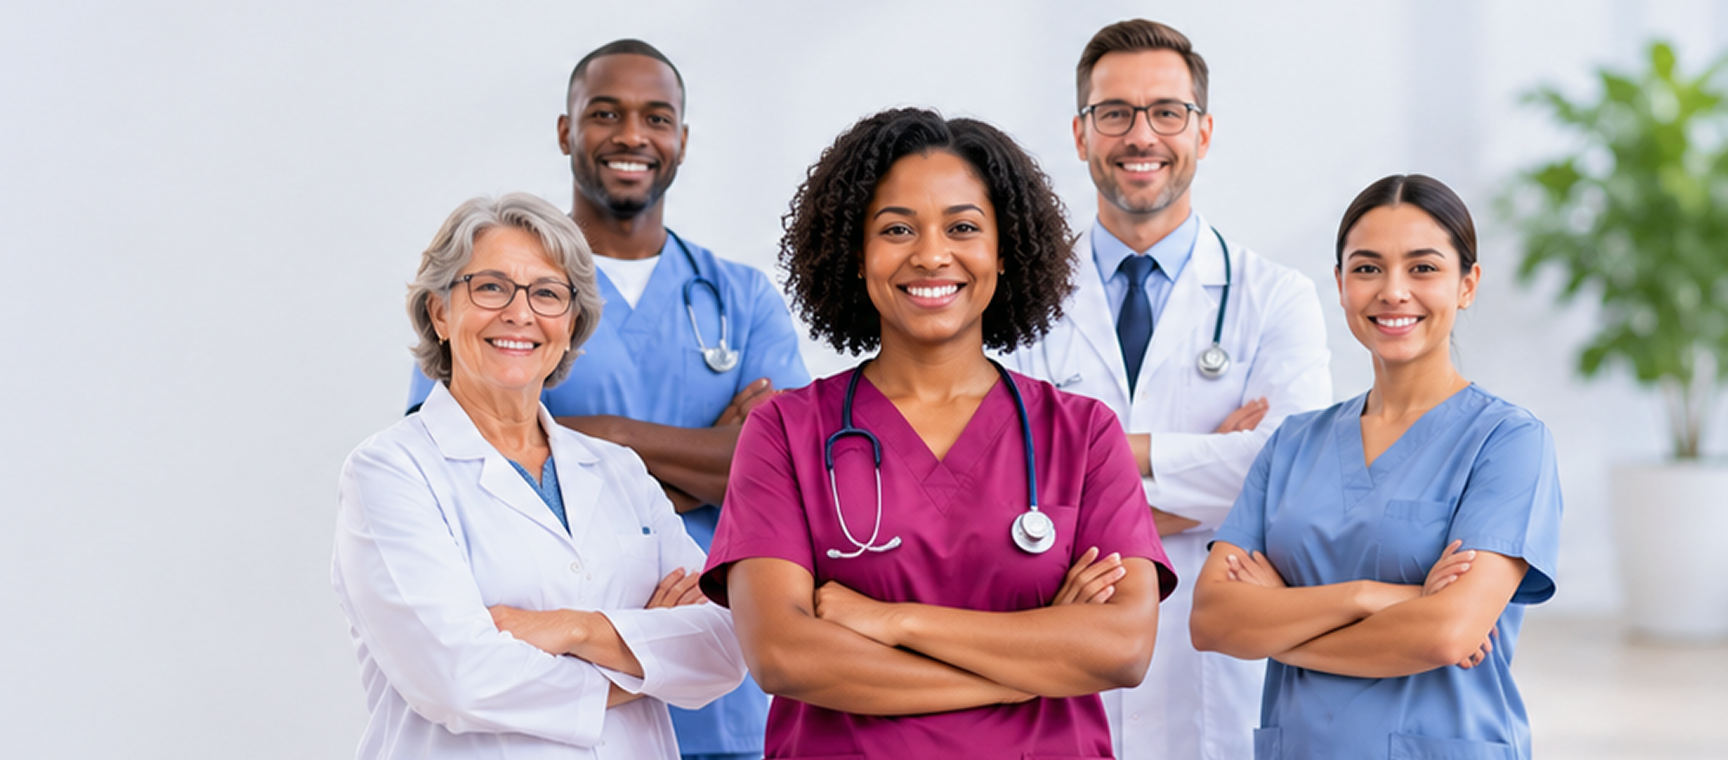
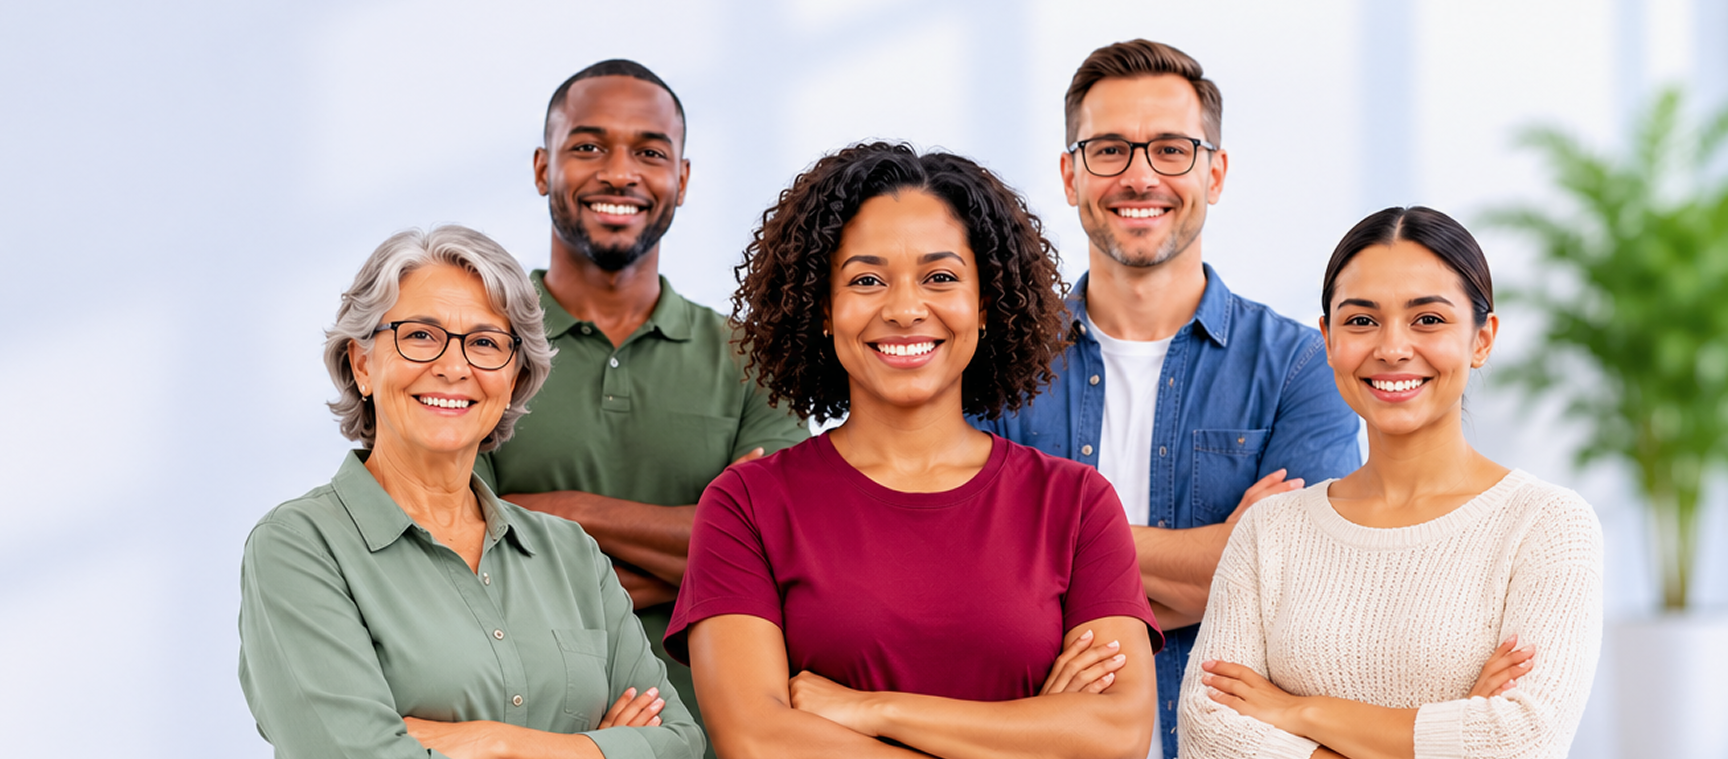
sjsj

diff --git a/src/components/AboutStats.tsx b/src/components/AboutStats.tsx
@@ -1,23 +1,91 @@
+"use client";
+
+import { useEffect, useRef, useState } from "react";
+
 const stats = [
-  { value: "72+", label: "Programs & Trainings" },
-  { value: "10+", label: "Daily Customers" },
-  { value: "20+", label: "Work Sessions" },
-  { value: "1K+", label: "Happy Customers" },
+  { target: 72, format: (n: number) => `${n}`, suffix: "+", label: "Programs & Trainings" },
+  { target: 10, format: (n: number) => `${n}`, suffix: "+", label: "Daily Customers" },
+  { target: 20, format: (n: number) => `${n}`, suffix: "+", label: "Work Sessions" },
+  {
+    target: 1000,
+    format: (n: number) => (n >= 1000 ? `${Math.floor(n / 1000)}K` : `${n}`),
+    suffix: "+",
+    label: "Happy Customers",
+  },
 ];
 
-export default function AboutStats() {
+const DURATION = 1800;
+
+function Stat({ target, format, suffix, label, started }: {
+  target: number;
+  format: (n: number) => string;
+  suffix: string;
+  label: string;
+  started: boolean;
+}) {
+  const [value, setValue] = useState(0);
+
+  useEffect(() => {
+    if (!started) return;
+    let raf: number;
+    const t0 = performance.now();
+    const tick = (t: number) => {
+      const p = Math.min((t - t0) / DURATION, 1);
+      const eased = 1 - Math.pow(1 - p, 3);
+      setValue(Math.round(target * eased));
+      if (p < 1) raf = requestAnimationFrame(tick);
+    };
+    raf = requestAnimationFrame(tick);
+    return () => cancelAnimationFrame(raf);
+  }, [started, target]);
+
   return (
-    <section className="bg-primary-dark py-16 text-white md:py-20">
+    <div className="flex flex-col items-center px-4 py-8 text-center sm:px-6 lg:py-10">
+      <p className="text-4xl font-normal sm:text-5xl lg:text-[52px]">
+        {format(value)}
+        {suffix}
+      </p>
+      <p className="mt-2 text-sm font-medium text-white/90">{label}</p>
+    </div>
+  );
+}
+
+export default function AboutStats() {
+  const ref = useRef<HTMLElement>(null);
+  const [started, setStarted] = useState(false);
+
+  useEffect(() => {
+    const el = ref.current;
+    if (!el) return;
+    const observer = new IntersectionObserver(
+      ([entry]) => {
+        if (entry.isIntersecting) {
+          setStarted(true);
+          observer.disconnect();
+        }
+      },
+      { threshold: 0.3 }
+    );
+    observer.observe(el);
+    return () => observer.disconnect();
+  }, []);
+
+  return (
+    <section ref={ref} className="bg-primary-dark py-16 text-white md:py-20">
       <div className="site-container">
         <h2 className="mx-auto max-w-[520px] text-center text-3xl font-bold sm:text-4xl lg:text-[36px]">
           Trusted And Backed By Meaningful Results
         </h2>
         <dl className="mx-auto mt-12 grid max-w-[1100px] grid-cols-2 divide-x divide-white/25 border border-white/25 lg:grid-cols-4">
-          {stats.map(({ value, label }) => (
-            <div key={label} className="flex flex-col items-center px-4 py-8 text-center sm:px-6 lg:py-10">
-              <p className="text-4xl font-normal sm:text-5xl lg:text-[52px]">{value}</p>
-              <p className="mt-2 text-sm font-medium text-white/90">{label}</p>
-            </div>
+          {stats.map(({ target, format, suffix, label }) => (
+            <Stat
+              key={label}
+              target={target}
+              format={format}
+              suffix={suffix}
+              label={label}
+              started={started}
+            />
           ))}
         </dl>
       </div>

diff --git a/src/components/Footer.tsx b/src/components/Footer.tsx
@@ -3,30 +3,30 @@ import Link from "next/link";
 
 const columns = [
   {
-    title: "Navigations",
+    title: "More Links",
     links: [
       { label: "Home", href: "/" },
       { label: "About", href: "/about" },
-      { label: "Courses", href: "#" },
-      { label: "Products", href: "#" },
+      { label: "Contact us", href: "/contact" },
+      { label: "Blogs", href: "/blogs" },
     ],
   },
   {
-    title: "Resources",
+    title: "What We Do",
     links: [
-      { label: "Home", href: "/" },
-      { label: "About", href: "/about" },
-      { label: "Applications", href: "#" },
-      { label: "Products", href: "#" },
+      { label: "House Cleaning", href: "/services" },
+      { label: "Medical Care", href: "/services" },
+      { label: "Errand Care", href: "/services" },
+      { label: "Companions", href: "/services" },
     ],
   },
   {
-    title: "Legal",
+    title: "What We Do",
     links: [
-      { label: "Privacy", href: "#" },
-      { label: "Terms & Conditions", href: "#" },
-      { label: "Products", href: "#" },
-      { label: "Certifications", href: "#" },
+      { label: "Laundry & Clothing Care", href: "/services" },
+      { label: "Elderly Care & Assistance", href: "/services" },
+      { label: "Dressing Care Service", href: "/services" },
+      { label: "Personal Hygiene Grooming", href: "/services" },
     ],
   },
 ];
@@ -55,8 +55,8 @@ export default function Footer() {
               />
             </Link>
             <p className="mt-5 text-base leading-snug">
-              Start With the Free Forex Sniper Class, learn the exact framework we use before
-              risking capital.
+              In-home care that elevates the human spirit — bringing comfort, dignity, and
+              peace of mind to you and your loved ones.
             </p>
             <div className="mt-6 flex items-center gap-5">
               <span className="text-sm font-semibold">Connect with us:</span>
@@ -75,9 +75,9 @@ export default function Footer() {
             </div>
           </div>
 
-          <div className="grid grid-cols-2 gap-10 sm:grid-cols-3 lg:gap-20">
-            {columns.map(({ title, links }) => (
-              <nav key={title} aria-label={title}>
+          <div className="flex flex-wrap gap-x-14 gap-y-10 lg:gap-x-24">
+            {columns.map(({ title, links }, i) => (
+              <nav key={`${title}-${i}`} aria-label={`${title} ${i + 1}`} className="shrink-0">
                 <h3 className="text-sm font-semibold">{title}</h3>
                 <ul className="mt-5 space-y-3.5">
                   {links.map(({ label, href }) => (

diff --git a/src/app/blogs/[slug]/page.tsx b/src/app/blogs/[slug]/page.tsx
@@ -5,6 +5,7 @@ import Navbar from "@/components/Navbar";
 import Consultation from "@/components/Consultation";
 import Footer from "@/components/Footer";
 import { getBlogBySlug, formatBlogDate } from "@/lib/blogs";
+import RelatedPosts from "@/components/RelatedPosts";
 
 async function Article({ params }: { params: Promise<{ slug: string }> }) {
   const { slug } = await params;
@@ -25,7 +26,7 @@ async function Article({ params }: { params: Promise<{ slug: string }> }) {
             className="-z-10 object-cover"
           />
         )}
-        <div className="absolute inset-0 -z-10 bg-[linear-gradient(to_top,#930965_0%,#930965_15%,#930965B3_35%,#93096559_55%,transparent_75%)]" />
+        <div className="absolute inset-0 -z-10 bg-[linear-gradient(to_top,#720142_0%,#720142_15%,#720142B3_35%,#72014259_55%,transparent_75%)]" />
         <div className="absolute inset-x-0 bottom-12">
           <div className="site-container flex flex-col gap-4 text-white sm:flex-row sm:items-end sm:justify-between">
             <div>
@@ -38,9 +39,6 @@ async function Article({ params }: { params: Promise<{ slug: string }> }) {
                 {blog.title}
               </h1>
             </div>
-            <p className="max-w-[320px] text-sm leading-snug sm:text-right">
-              More Than Helping Hands, We Bring Comfort, Care, and Peace of Mind.
-            </p>
           </div>
         </div>
       </section>
@@ -89,6 +87,7 @@ export default function BlogPostPage({
         }
       >
         <Article params={params} />
+        <RelatedPosts slugPromise={params.then((p) => p.slug)} />
       </Suspense>
       <Consultation />
       <Footer />

diff --git a/src/components/RelatedPosts.tsx b/src/components/RelatedPosts.tsx
@@ -1,0 +1,38 @@
+import { getBlogs, formatBlogDate } from "@/lib/blogs";
+import { Card } from "@/components/Blogs";
+
+export default async function RelatedPosts({ slugPromise }: { slugPromise: Promise<string> }) {
+  const excludeSlug = await slugPromise;
+  const blogs = (await getBlogs()).filter((b) => b.slug !== excludeSlug).slice(0, 3);
+
+  if (blogs.length === 0) return null;
+
+  return (
+    <section className="pb-16 md:pb-24">
+      <div className="site-container">
+        <div className="flex items-center justify-center gap-6">
+          <span className="h-px w-16 bg-gray-300 sm:w-28" />
+          <p className="text-sm font-medium uppercase text-primary">Other Related Blogs</p>
+          <span className="h-px w-16 bg-gray-300 sm:w-28" />
+        </div>
+        <h2 className="mx-auto mt-6 max-w-[560px] text-center text-3xl font-bold text-black sm:text-4xl lg:text-[36px]">
+          Compassionate Support for Every Part of Daily Living
+        </h2>
+
+        <div className="mx-auto mt-12 grid max-w-[1100px] gap-6 sm:grid-cols-2 lg:mt-16 lg:grid-cols-3 lg:gap-8">
+          {blogs.map((blog) => (
+            <Card
+              key={blog.id}
+              title={blog.title}
+              author={blog.author}
+              date={formatBlogDate(blog.created_at)}
+              dateTime={blog.created_at}
+              image={blog.image_url}
+              href={`/blogs/${blog.slug}`}
+            />
+          ))}
+        </div>
+      </div>
+    </section>
+  );
+}

diff --git a/src/app/contact/page.tsx b/src/app/contact/page.tsx
@@ -49,8 +49,18 @@ export default function ContactPage() {
                 A team of experienced professionals ready to provide compassionate care and
                 reliable healthcare support every day.
               </p>
+              <div className="mt-10 h-[260px] flex-none overflow-hidden rounded-xl border border-[#CFE3F7] sm:h-[300px] lg:h-[320px]">
+                <iframe
+                  title="Fawez Helping Hands — 5875 N Lincoln Avenue STE 110, Chicago IL 60659"
+                  src="https://maps.google.com/maps?q=5875%20N%20Lincoln%20Avenue%20STE%20110%2C%20Chicago%2C%20IL%2060659&z=15&output=embed"
+                  className="size-full border-0"
+                  loading="lazy"
+                  referrerPolicy="no-referrer-when-downgrade"
+                  allowFullScreen
+                />
+              </div>
               <div className="hidden min-h-8 flex-1 lg:block" aria-hidden />
-              <div className="relative mt-8 h-[280px] flex-none overflow-hidden rounded-xl sm:h-[340px] lg:mt-0 lg:h-[430px]">
+              <div className="relative mt-8 h-[220px] flex-none overflow-hidden rounded-xl sm:h-[260px] lg:mt-6 lg:h-[280px]">
                 <Image
                   src="/images/contact_img.avif"
                   alt="Care professional reviewing a care plan on a tablet"

diff --git a/src/components/PageBanner.tsx b/src/components/PageBanner.tsx
@@ -23,11 +23,11 @@ export default function PageBanner({
         sizes="100vw"
         className={`-z-10 object-cover ${position}`}
       />
-      <div className="absolute inset-0 -z-10 bg-[linear-gradient(to_top,#930965_0%,#930965_15%,#930965B3_35%,#93096559_55%,transparent_75%)]" />
+      <div className="absolute inset-0 -z-10 bg-[linear-gradient(to_top,#720142_0%,#720142_15%,#720142B3_35%,#72014259_55%,transparent_75%)]" />
       <div className="absolute inset-x-0 bottom-12">
         <div className="site-container flex flex-col gap-4 text-white sm:flex-row sm:items-end sm:justify-between">
           <h1 className="text-4xl font-bold sm:text-5xl">{title}</h1>
-          <p className="max-w-[320px] text-sm leading-snug sm:text-right">{subtitle}</p>
+          <p className="max-w-[320px] text-sm lg:text-[20px] leading-snug sm:text-right">{subtitle}</p>
         </div>
       </div>
     </section>

diff --git a/src/components/CareServices.tsx b/src/components/CareServices.tsx
@@ -43,7 +43,7 @@ export default function CareServices() {
           </p>
         </div>
 
-        <ul className="w-full max-w-[400px] divide-y-[4px] divide-[#930965]/10 rounded-3xl bg-[#B2DAFFCC] p-6 shadow-[0_3px_30px_#00000040] sm:p-8 lg:mr-4">
+        <ul className="w-full max-w-[400px] divide-y-[4px] divide-[#720142]/10 rounded-3xl bg-[#B2DAFFCC] p-6 shadow-[0_3px_30px_#00000040] sm:p-8 lg:mr-4">
           {items.map(({ icon, title, subtitle, w, h }) => (
             <li key={subtitle} className="flex items-center gap-6 py-5 sm:py-6">
               <span className="flex size-14 shrink-0 items-center justify-center rounded-full bg-white shadow-[0_2px_10px_rgba(0,0,0,0.08)]">

diff --git a/src/components/AboutMission.tsx b/src/components/AboutMission.tsx
@@ -33,7 +33,7 @@ export default function AboutMission() {
   return (
     <section className="bg-[#F2F9FF] pt-16 md:pt-24">
       <div className="site-container text-center">
-        <p className="text-sm font-medium uppercase text-primary">About Fawez Helping Hands</p>
+        <p className="text-sm font-medium uppercase lg:text-[16px] text-primary">About Fawez Helping Hands</p>
         <h2 className="mx-auto mt-6 max-w-[640px] text-3xl font-bold text-black sm:text-4xl lg:text-[36px]">
           Because caring goes beyond assistance, it&apos;s about preserving dignity, building
           trust, and making every moment count.

diff --git a/src/components/Consultation.tsx b/src/components/Consultation.tsx
@@ -110,7 +110,7 @@ export default function Consultation() {
             onSubmit={onSubmit}
             onChange={clearMissing}
             noValidate
-            className="space-y-3.5 rounded-2xl bg-[#B2DAFF] p-3"
+            className="space-y-3.5 rounded-2xl bg-[#B2DAFF] p-6"
           >
             <div className="grid gap-3.5 sm:grid-cols-2">
               <input name="name" type="text" required placeholder="Full Name" aria-label="Full Name" className={fieldClass("name")} />

diff --git a/src/app/globals.css b/src/app/globals.css
@@ -8,8 +8,8 @@
 @theme inline {
   --color-background: var(--background);
   --color-foreground: var(--foreground);
-  --color-primary: #930965;
-  --color-primary-dark: #7a0754;
+  --color-primary: #720142;
+  --color-primary-dark: #720142;
   --font-sans: var(--font-archetica), var(--font-outfit), ui-sans-serif, system-ui, sans-serif;
 }
 

diff --git a/src/components/Blogs.tsx b/src/components/Blogs.tsx
@@ -3,7 +3,7 @@ import Link from "next/link";
 import { Suspense } from "react";
 import { getBlogs, formatBlogDate } from "@/lib/blogs";
 
-function Card({
+export function Card({
   title,
   author,
   date,
